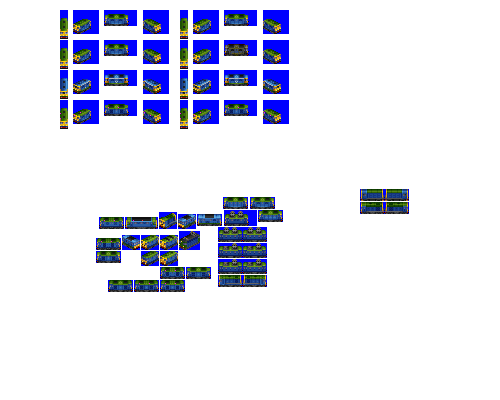
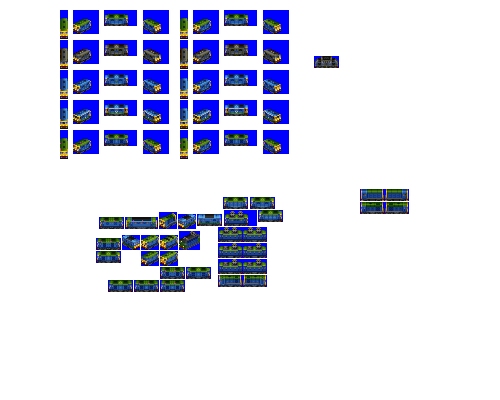
Change: additional liveries for Peasweep

diff --git a/src/vehicles/peasweep.py b/src/vehicles/peasweep.py
@@ -15,7 +15,7 @@ def main(roster_id):
         gen=4,
         pantograph_type="diamond-double",
         intro_year_offset=-13,  # introduce earlier than gen epoch by design
-        additional_liveries=["FREIGHT_BLACK", "RAILFREIGHT_RED_STRIPE"],
+        additional_liveries=["FREIGHT_BLACK", "BANGER_BLUE", "RAILFREIGHT_RED_STRIPE"],
         sprites_complete=True,
     )
 
